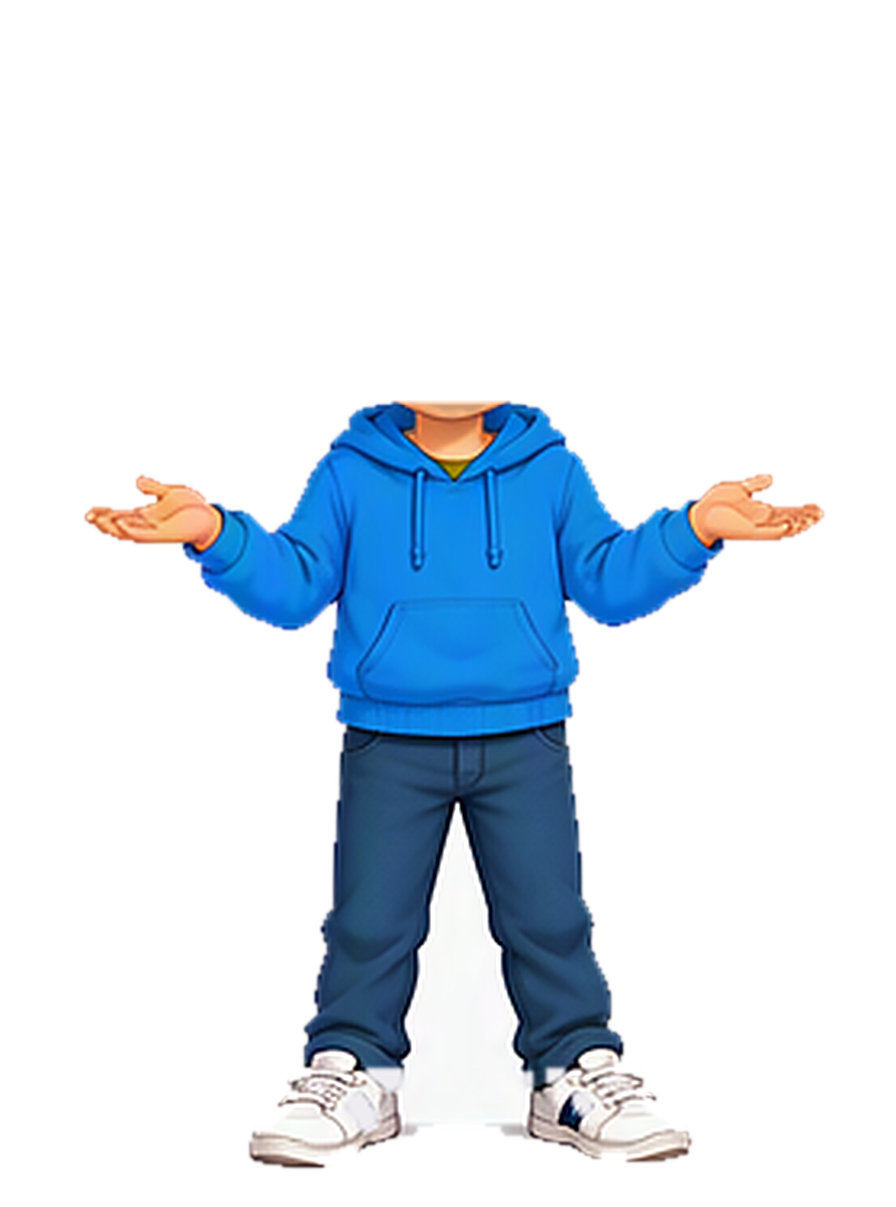
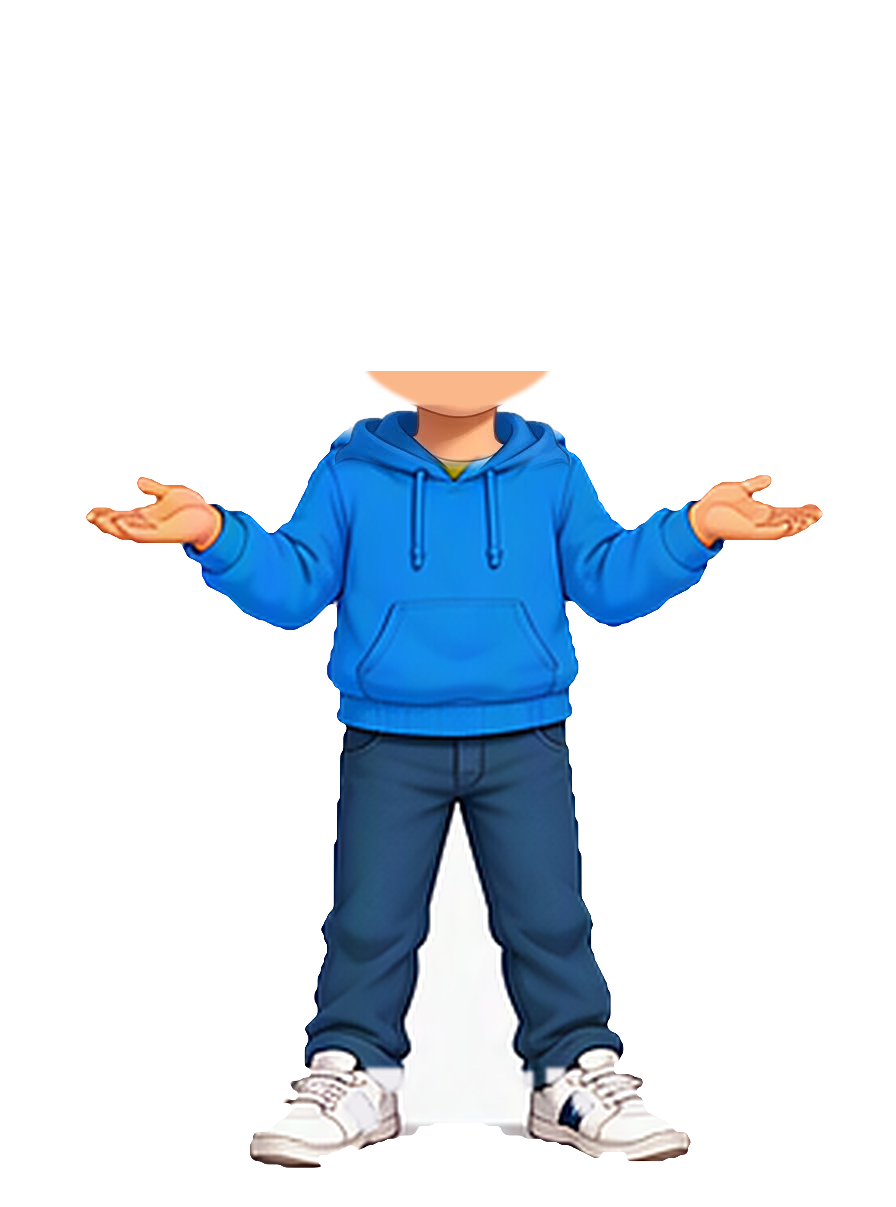
Poses: el cuello del dibujo original en todas las poses y cambios suaves
- El cuello y la abertura de la capucha de body.png van encima del cuerpo de
  cada pose; por encima del cuello solo quedan los brazos marcados, sin restos
  de pelo ni de barbilla de la hoja.
- Contorno de los cuerpos suavizado (sin escalones al ampliar).
- Cambio de pose: fundido corto sin rebote, y la pose se mantiene al menos
  una frase; las poses con la mano en la cara ya no salen solas.

Claude-Session: https://claude.ai/code/session_0193hWfzVzPtkdWeitjtRJrp

diff --git a/src/puppets.js b/src/puppets.js
@@ -68,14 +68,12 @@
     return mouth + (shut ? `<image href="${img.blink}" x="0" y="0" width="${rig.w}" height="${rig.h}"/>` : '');
   }
 
-  // how far a pose moves the kid down (sitting, crouching...), blended while the pose changes, plus the little dip
-  // and rebound of the change itself (poseK eases with overshoot: down while the new pose comes in, up past 1)
+  // how far a pose moves the kid down (sitting, crouching...), blended while the pose changes
   function poseDy(st) {
     const rig = RIG[st.who], dy = n => (n && rig.poses?.[n] ? rig.feet - rig.poses[n].feet : 0);
-    const k = st.poseK ?? 1;
+    const k = Math.min(1, Math.max(0, st.poseK ?? 1));
     if (st.pose0 === st.pose || k === 1) return dy(st.pose);
-    const c = Math.min(1, Math.max(0, k));
-    return dy(st.pose0) + (dy(st.pose) - dy(st.pose0)) * c + 14 * Math.sin(Math.PI * Math.min(1.25, k));
+    return dy(st.pose0) + (dy(st.pose) - dy(st.pose0)) * k;
   }
 
   function kid(st) {
@@ -93,7 +91,8 @@
         : `<image href="${img.body}" x="0" y="0" width="${rig.w}" height="${rig.h}"${o < 1 ? ` opacity="${f1(o)}"` : ''}/>`;
     };
     const front = name => (rig.poses?.[name]?.front ? `<image href="${img.fronts[name]}" x="0" y="0" width="${rig.w}" height="${rig.poses[name].h}"/>` : '');
-    const body = k < 1 && st.pose0 !== st.pose ? layer(st.pose0, 1) + layer(st.pose, k) : layer(st.pose, 1);
+    // a short dissolve: the old pose goes out while the new one comes in, so both bodies are never seen whole
+    const body = k < 1 && st.pose0 !== st.pose ? layer(st.pose0, Math.min(1, 2 * (1 - k))) + layer(st.pose, Math.min(1, 2 * k)) : layer(st.pose, 1);
     // hands on the head or the face go with the head
     const fr = k < 0.5 && st.pose0 !== st.pose ? front(st.pose0) : front(st.pose);
     const head = `<g transform="translate(${f1(st.headX ?? 0)} ${f1(st.headY ?? 0)}) rotate(${f1(st.headR ?? 0)} ${px} ${py})">

diff --git a/tools/prepare_poses.py b/tools/prepare_poses.py
@@ -10,6 +10,8 @@ each pose only gives the body under it. Per pose:
     the drawing, Chiño's rule); poses with the feet elsewhere (jumping, running, sitting...) keep the head scale,
   - the pose's own head is removed, and the hands that go over the face are kept in a "front" layer that is
     drawn on top of the original head,
+  - above the neck only the arms of the listed boxes stay, and the collar of the original drawing (neck and hood
+    opening, body.png) goes over the pose, so the joint with the head is always the one of the drawing,
   - brand-like marks on the sneakers become plain white leather (originality rule of docs/biblia-personajes.md).
 The sheets are small (each figure is about 300 px tall against 1100 px of the originals), so the poses are
 upscaled: they look a little softer than the head."""
@@ -48,7 +50,7 @@ POSES = {
         'r-con-balon': ((525, 122, 747, 553), 'stand', []),
         'r-caminando': ((771, 122, 990, 557), 'stand', []),
         'r-sentado': ((531, 656, 754, 981), 'head', []),
-        'r-senala-arriba': ((759, 594, 997, 1021), 'stand', [('keep', 590, 40, 896, 470)]),
+        'r-senala-arriba': ((759, 594, 997, 1021), 'stand', [('keep', 650, 40, 896, 470)]),
         'r-atandose': ((539, 1094, 736, 1435), 'head', []),
         'r-leyendo': ((798, 1059, 993, 1460), 'stand', []),
     },
@@ -243,8 +245,13 @@ def main():
             rgb_u = unbrand(rgb, ~bg, soles_c, ys.min())
             big = place(Image.fromarray(rgb_u.clip(0, 255).astype(np.uint8)), 'RGB')
             big = big.filter(ImageFilter.UnsharpMask(radius=2.5, percent=60, threshold=2))
-            al = Image.fromarray(np.where(bg, 0, 255).astype(np.uint8)).filter(ImageFilter.MinFilter(3))
-            al = np.asarray(place(al, 'L').filter(ImageFilter.GaussianBlur(1.1))).astype(float)
+            # the outline: the cut-out is ~4x smaller than the frame, so a plain upscale gives stairs. Blur it at
+            # the size of a sheet pixel and cut it again (smoothstep): round, clean edges
+            al0 = Image.new('L', (W, Hf))
+            al0.paste(Image.fromarray(np.where(bg, 0, 255).astype(np.uint8)).filter(ImageFilter.MinFilter(3)).resize(up, Image.BICUBIC), at)
+            al = np.asarray(al0.filter(ImageFilter.GaussianBlur(float(0.7 / s)))).astype(float) / 255
+            al = np.clip((al - 0.5) / 0.12 + 0.5, 0, 1)
+            al = 255 * al * al * (3 - 2 * al)
             # the pose's own head: the original head silhouette put where it was found, a bit bigger, above the chin
             hs = Image.new('L', cell.size)
             hsil = h.getchannel('A').crop(hb).resize((round(h.crop(hb).width * s_h), round(h.crop(hb).height * s_h)), Image.LANCZOS)
@@ -256,6 +263,9 @@ def main():
             oh[:rig['h']] = (np.asarray(h.getchannel('A')) > 40) * 255
             oh = dilate(Image.fromarray(oh), 60)
             hs = np.maximum(hs, np.asarray(oh.filter(ImageFilter.GaussianBlur(4))).astype(float) / 255)
+            near = np.zeros((Hf, W), np.uint8)
+            near[:rig['h']] = (np.asarray(h.getchannel('A')) > 40) * 255
+            near = np.asarray(dilate(Image.fromarray(near), 36)) > 127
             # sleeve colour (for the hands drawn in front of the head)
             bf = np.asarray(big).astype(float)
             r_, g_, b_ = bf[..., 0], bf[..., 1], bf[..., 2]
@@ -272,7 +282,7 @@ def main():
             for b in front:
                 if b[0] == 'keep':
                     x0, y0, x1, y1 = b[1:]
-                    arm = ~hair[y0:y1, x0:x1]
+                    arm = ~(hair & near)[y0:y1, x0:x1]
                     hs[y0:y1, x0:x1] *= 1 - arm
             # the hood never goes (shoulders of a jumping kid come up near the chin)
             hs = hs * (1 - sleeve)
@@ -297,7 +307,39 @@ def main():
             out = os.path.join(CH, cid, 'poses', name[2:])
             if os.environ.get('POSES_DEBUG'):
                 Image.fromarray(np.dstack([np.asarray(big), al]).clip(0, 255).astype(np.uint8), 'RGBA').save(os.path.join(os.environ['POSES_DEBUG'], name + '.png'))
-            rgba = np.dstack([np.asarray(big).astype(float), body_a]).clip(0, 255).astype(np.uint8)
+            # above the neck only the arms of the keep/front boxes stay: any other bit of the sheet there is its
+            # hair or its face
+            allowed = np.zeros((Hf, W))
+            for b in front:
+                x0, y0, x1, y1 = b[1:] if b[0] == 'keep' else b
+                y1 = max(y1, rig['chin'] + 30)       # down to the shoulder, so the arm has no cut
+                allowed[y0:y1, x0:x1] = 1 if b[0] != 'keep' else ~(hair & near)[y0:y1, x0:x1]
+            allowed = np.asarray(Image.fromarray((allowed * 255).astype(np.uint8)).filter(ImageFilter.GaussianBlur(2))).astype(float) / 255
+            # the hood and the shoulders stay (closed, so the light folds of the hood stay with it)
+            hood = Image.fromarray(((sleeve > 0.5) * 255).astype(np.uint8)).filter(ImageFilter.MaxFilter(9)).filter(ImageFilter.MinFilter(9))
+            hood = np.asarray(hood.filter(ImageFilter.GaussianBlur(1.5))).astype(float) / 255
+            above = np.clip((rig['chin'] + 16 - yy) / 12, 0, 1) * (1 - hood)
+            body_a = body_a * (1 - above * (1 - allowed))
+            # crumbs of the sheet's hair or hood that are left next to the head go (an opening of the mask)
+            op = Image.fromarray(body_a.clip(0, 255).astype(np.uint8)).filter(ImageFilter.MinFilter(9)).filter(ImageFilter.MaxFilter(9))
+            op = np.asarray(op.filter(ImageFilter.GaussianBlur(1))).astype(float)
+            cut = np.clip((rig['chin'] + 10 - yy) / 10, 0, 1) * (1 - allowed)
+            body_a = body_a * (1 - cut) + np.minimum(body_a, op) * cut
+            # round the neck the collar of the drawing is the only one: nothing of the sheet's hood sticks out of it
+            xx = np.arange(W)[None, :]
+            zone = np.clip((165 - abs(xx - rig['pivot'][0])) / 35, 0, 1) * np.clip((rig['chin'] + 30 - yy) / 15, 0, 1)
+            body_a = body_a * (1 - zone * (1 - allowed))
+            # the collar: the hood opening and the neck of the original drawing go over the pose, so the joint under
+            # the chin is always the one Chiño drew (fades out before the drawstrings)
+            ob = np.zeros((Hf, W, 4))
+            ob[:rig['h']] = np.asarray(Image.open(os.path.join(CH, cid, 'body.png')).convert('RGBA')).astype(float)
+            xx = np.arange(W)[None, :]
+            cm = np.clip((rig['chin'] + 62 - yy) / 18, 0, 1) * (yy > rig['chin'] - 40) * np.clip((165 - abs(xx - rig['pivot'][0])) / 35, 0, 1)
+            ya = ob[..., 3] / 255 * cm * (1 - allowed * (yy < rig['chin']))
+            ba = body_a / 255
+            oa = ya + ba * (1 - ya)
+            col = (ob[..., :3] * ya[..., None] + np.asarray(big).astype(float) * (ba * (1 - ya))[..., None]) / np.maximum(oa, 1e-6)[..., None]
+            rgba = np.dstack([col, oa * 255]).clip(0, 255).astype(np.uint8)
             rgba[rgba[..., 3] == 0] = 0
             Image.fromarray(rgba, 'RGBA').save(out + '.png', optimize=True)
             entry = {'h': Hf, 'feet': round(soles_f - (SOLES - rig['feet']))}

diff --git a/docs/direccion.md b/docs/direccion.md
@@ -23,7 +23,9 @@ Corte seco entre planos y un empuje lento (2,5 %) durante cada línea, para que 
 
 ## Poses (las elige `src/director.mjs`)
 
-Quien habla toma una pose según la frase: cara de sorpresa → `encoge` / `mano-frente`; duda → `rasca` / `mano-barbilla`; pregunta → `encoge` / `palmas-arriba`; exclamación → `senala` / `senala-a-e`; explicación → `explica`, `senala`, `idea`...; feliz → `pulgar-arriba`, `corazon`. Quien escucha cambia solo de vez en cuando (`manos-cadera`, `brazos-cruzados`, `mano-barbilla` o el dibujo original). Una línea puede pedir una concreta con `pose` / `pose_otro`; las de movimiento (`salta`, `corre`, `sentado`, `atandose`, `con-balon`, `caminando`, `leyendo`) solo salen si el guion las pide.
+Quien habla toma una pose según la frase: cara de sorpresa → `encoge` / `palmas-arriba`; duda → `encoge` / `brazos-cruzados`; pregunta → `encoge` / `palmas-arriba`; exclamación → `senala` / `senala-a-e`; explicación → `explica`, `senala`, `idea`...; feliz → `pulgar-arriba`, `corazon`. El cambio es un fundido corto (0,24 s), sin rebote, y quien acaba de cambiar mantiene la pose al menos una frase más. Quien escucha cambia solo de vez en cuando (`manos-cadera`, `brazos-cruzados` o el dibujo original). Una línea puede pedir una concreta con `pose` / `pose_otro`; las de movimiento (`salta`, `corre`, `sentado`, `atandose`, `con-balon`, `caminando`, `leyendo`) y las de mano en la cara (`rasca`, `susurra`, `mano-barbilla`, `mano-frente`, que se ven peor de cerca) solo salen si el guion las pide.
+
+En todas las poses el cuello y la abertura de la capucha son los del dibujo original (van por encima del cuerpo de la pose), así la unión con la cabeza es siempre la de Chiño.
 
 Poses de E: explica, senala, brazos-cruzados, encoge, rasca, manos-cadera, salta, corre, susurra, pulgar-arriba, idea, corazon. Poses de R: mano-barbilla, levanta-mano, senala-a-e, brazos-cruzados, palmas-arriba, mano-frente, con-balon, caminando, sentado, senala-arriba, atandose, leyendo. La tercera hoja (`poses-3.png`) está guardada pero sin usar: sus figuras son muy pequeñas y con la cabeza girada.
 
